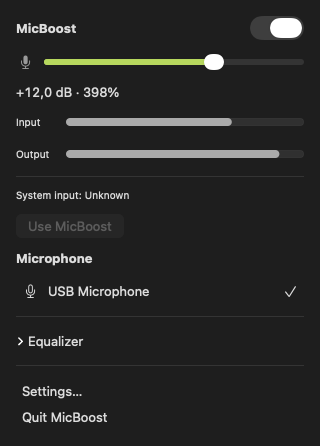
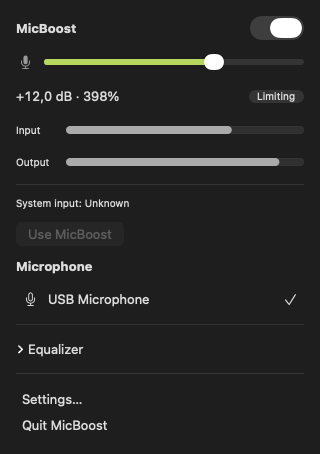
Keep limiter indication in a stable gain row

diff --git a/Sources/MicBoostUI/Views.swift b/Sources/MicBoostUI/Views.swift
@@ -59,19 +59,26 @@ import SwiftUI
                     return .handled
                 }
             }
-            if editing {
-                TextField(
-                    localized("Gain"), value: Binding(get: { model.controls.gainDB }, set: model.gain), format: .number
-                )
-                .onSubmit { editing = false }
-            } else {
-                Button(AppModel.gainLabel(model.controls.gainDB)) { editing = true }.buttonStyle(.plain)
-                    .monospacedDigit()
-            }
-            if model.limitingUntil > Date() {
-                Text(localized("Limiting")).font(.caption).padding(.horizontal, 8).background(
-                    .quaternary, in: Capsule())
-            }
+            HStack {
+                if editing {
+                    TextField(
+                        localized("Gain"), value: Binding(get: { model.controls.gainDB }, set: model.gain),
+                        format: .number
+                    )
+                    .onSubmit { editing = false }
+                } else {
+                    Button(AppModel.gainLabel(model.controls.gainDB)) { editing = true }.buttonStyle(.plain)
+                        .monospacedDigit()
+                }
+                Spacer(minLength: 8)
+                Text(localized("Limiting"))
+                    .font(.caption)
+                    .padding(.horizontal, 8)
+                    .background(.quaternary, in: Capsule())
+                    .fixedSize()
+                    .opacity(model.limitingUntil > Date() ? 1 : 0)
+                    .accessibilityHidden(model.limitingUntil <= Date())
+            }.frame(minHeight: 24)
             meter("Input", model.inputDB)
             meter("Output", model.outputDB)
             if model.clipped { Text(localized("Input clipped")).font(.caption).foregroundStyle(.red) }

diff --git a/Tests/MicBoostUITests/AppModelTests.swift b/Tests/MicBoostUITests/AppModelTests.swift
@@ -1,5 +1,7 @@
+import AppKit
 import Foundation
 import MicBoostCore
+import SwiftUI
 import Testing
 
 @testable import MicBoostUI
@@ -35,4 +37,15 @@ import Testing
     #expect((await store.current).processingEnabled)
     #expect(model.error == .noSourceSelected)
     try await model.shutdown()
+}
+
+@MainActor @Test func limiterBadgeKeepsPanelSize() {
+    let quiet = AppModel()
+    quiet.limitingUntil = .distantPast
+    let limiting = AppModel()
+    limiting.limitingUntil = .distantFuture
+    let quietSize = NSHostingView(rootView: PanelView(model: quiet)).fittingSize
+    let limitingSize = NSHostingView(rootView: PanelView(model: limiting)).fittingSize
+    #expect(quietSize.width == 320 && quietSize.height > 0)
+    #expect(limitingSize == quietSize)
 }

diff --git a/Sources/render-screenshots/main.swift b/Sources/render-screenshots/main.swift
@@ -18,6 +18,7 @@ import SwiftUI
         let scheme: ColorScheme = dark ? .dark : .light
         for kind in ["panel", "eq", "settings", "error"] {
             model.expanded = kind == "eq"
+            model.limitingUntil = kind == "panel" ? .distantFuture : .distantPast
             model.error = kind == "error" ? .blackHoleMissing : nil
             let view = kind == "settings" ? AnyView(SettingsView(model: model)) : AnyView(PanelView(model: model))
             let appearance = NSAppearance(named: dark ? .darkAqua : .aqua)

diff --git a/docs/ui.md b/docs/ui.md
@@ -38,7 +38,7 @@ Conteúdo, de cima para baixo (SwiftUI, `PanelView`):
    - **Desligar:** para o motor por completo (rampa, `AudioDeviceStop`, IOProc e agregado destruídos), de modo que o microfone deixa de ser capturado e o indicador de microfone do macOS apaga. A entrada padrão é restaurada conforme a [política](audio-engine.md#política-de-entrada-padrão-defaultinputmanager), e o ícone vira `mic`.
    - **Ligar:** reconstrói o motor com a fonte e os ajustes persistidos e reaplica a política de entrada padrão.
    - O estado persiste (`processingEnabled`), e a troca nunca fecha o painel.
-2. **Ganho:** botão de mute com o ícone `mic.fill`/`mic.slash.fill` centralizado em uma área fixa de 20 × 20 pt para não deslocar o slider ao alternar, `Slider` de ganho de −12 a +24 dB e rótulo `+12,0 dB · 398%`. O valor é editável: clicar no rótulo abre um campo numérico em dB. O selo "Limitando" (pílula discreta) aparece durante a proteção de pico.
+2. **Ganho:** botão de mute com o ícone `mic.fill`/`mic.slash.fill` centralizado em uma área fixa de 20 × 20 pt para não deslocar o slider ao alternar, `Slider` de ganho de −12 a +24 dB e rótulo `+12,0 dB · 398%`. O valor é editável: clicar no rótulo abre um campo numérico em dB. O selo "Limitando" (pílula discreta) aparece ao lado do valor de ganho durante a proteção de pico; sua área permanece reservada e o selo fica oculto para acessibilidade quando inativo, sem alterar a altura do painel ou deslocar controles.
 3. **Medidores:** duas barras finas horizontais, "Entrada" e "Saída", em dBFS de −60 a 0, que só mudam de cor perto de 0. Aviso "Entrada saturada" quando `input_clipped`.
 4. **Entrada do sistema:** apenas o estado da entrada padrão; a fonte selecionada é indicada pela marcação na lista de microfones, sem uma linha adicional de caminho do áudio:
    - ok: "Entrada do sistema: MicBoost" com marcação;

diff --git a/README.md b/README.md
@@ -54,7 +54,8 @@ keeps the output below −1 dBFS; human voice calibration and listening checks r
 
 Available today:
 
-- **Gain from −12 to +24 dB**, mute and peak protection; toggling mute keeps the gain slider in place.
+- **Gain from −12 to +24 dB**, mute and peak protection; mute and the limiting indicator keep
+  the panel layout stable.
 - **3-band EQ** with adjustable bass, parametric mids and treble, bypass and reset. Click its
   title or disclosure arrow to expand or collapse it; each band has a clear section heading.
 
